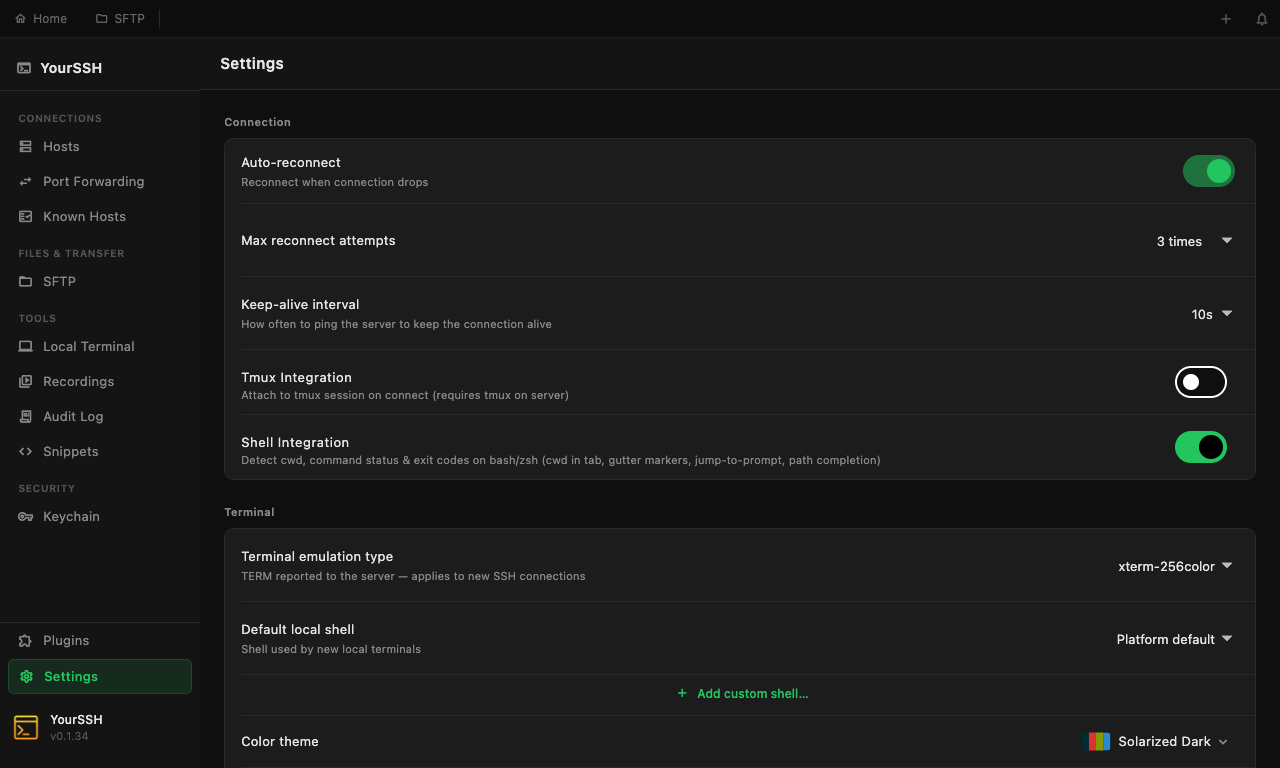
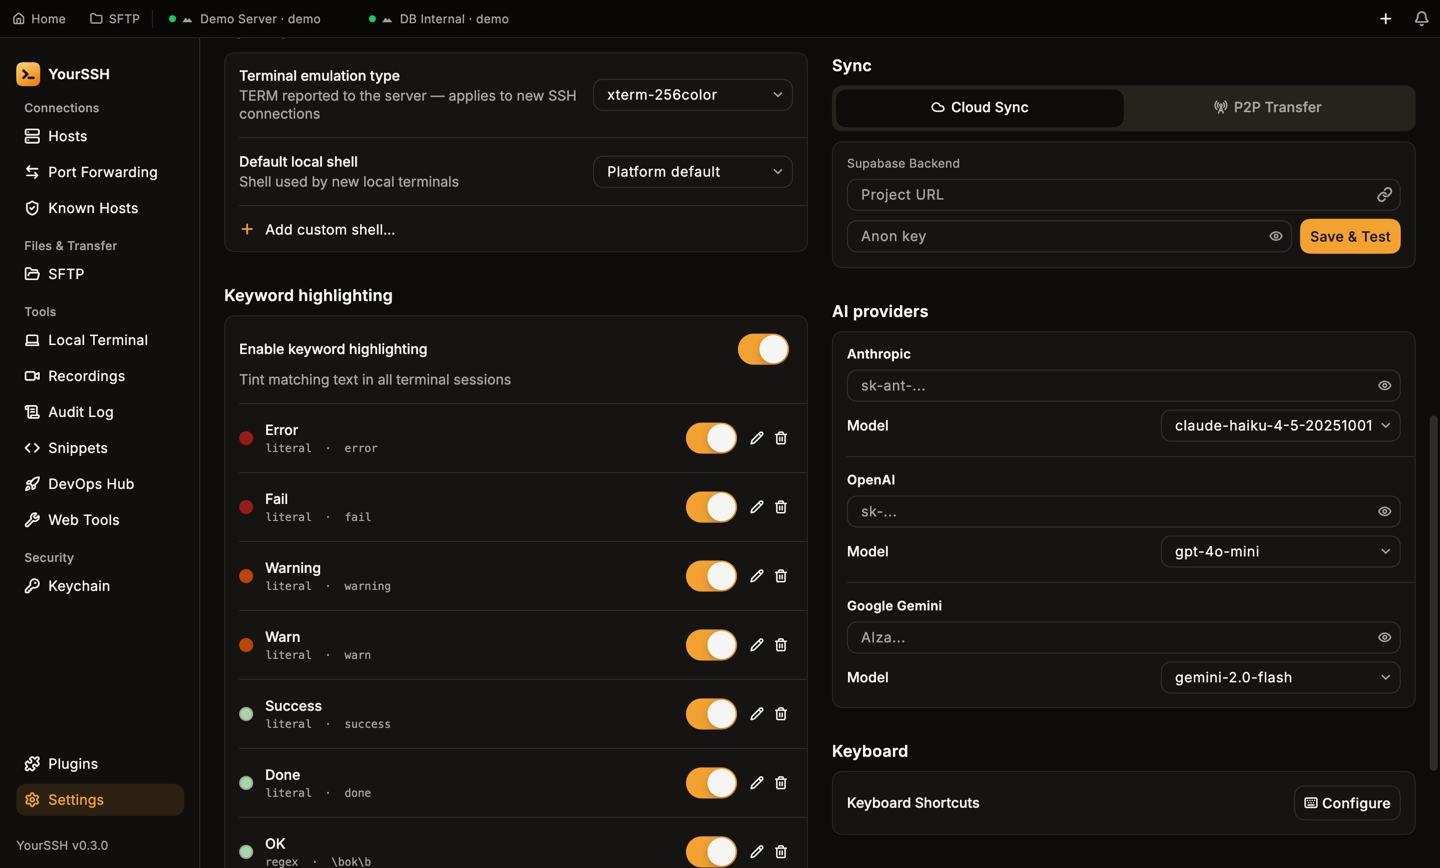
docs: refresh README screenshots with the redesigned UI and log the docs-run fixes

diff --git a/CHANGELOG.md b/CHANGELOG.md
@@ -13,6 +13,15 @@ and this project adheres to [Semantic Versioning](https://semver.org/spec/v2.0.0
 - **Audit source for CLI and URL connects** — SSH connect rows carry `meta.source` = `cli` / `url`; RDP and VNC rows keep `source: rdp|vnc` and carry `via` = `cli` / `url`.
 
 ### Fixed
+- **Snippets no longer disappear after allowing the bundled "Snippets" plugin.** Earlier builds shipped a half-migrated script copy of Snippets that moved your snippets out of the built-in plugin's storage on first load and then failed, so the next launch showed only the defaults. The script copy is no longer installed, a leftover copy in `~/.yourssh/plugins/snippets` is ignored (script plugins can't reuse a built-in plugin's id), and the moved snippets are restored once at startup (merged, no duplicates).
+- Bulk "Run command" no longer reports `exit -1` for fast commands: the SSH layer kept an exit status that arrived before the session was ready. The footer counts non-zero exits separately (`N ok · M non-zero exit · K failed`) and an unknown exit status is shown as such.
+- A host whose name doesn't resolve no longer sits on "Connecting…" forever: the TCP dial times out after 15 s and the connecting screen shows the last error with the retry attempt.
+- Entering RDP/VNC fullscreen no longer raises a framework error; the first RDP connect shows a neutral "verifying certificate" state behind the trust dialog instead of an error with Retry; Retry buttons have a normal width.
+- Shell-integration gutter markers follow their prompt line and disappear on `clear` instead of floating on empty rows.
+- Field errors in the host editor and port-forward editor clear as soon as the value is fixed, and the port error fits on one line.
+- The hosts toolbar fits the 900×600 minimum window (lower-priority controls collapse into a menu); the Mail Catcher and AI chat titles no longer truncate with room to spare; multi-line Web Tools editors start at the top; the mobile Generate/Import key sheets have an opaque surface; Esc closes the LAN-sync QR dialog.
+- SFTP shows readable errors (e.g. '"releases" already exists') instead of raw `SftpStatusError` codes when creating or renaming.
+- An empty split pane explains how to fill it; remaining all-caps buttons and titles (Keychain, Port forwarding, Audit log, bulk dialogs) use sentence case.
 - **The host editor no longer leaks one host's form into another.** Opening "Edit" on a second host (or "New host" / "Duplicate") while the editor was open kept the first host's fields, and Save wrote them (including the password) into the second host.
 - The terminal header and status bar follow edits to the host (label, user, tags, jump chain) instead of showing the values from when the tab was opened.
 - Mail catcher: messages whose log starts with ESMTP options (`mail options: ['BODY=8BITMIME']`) are no longer dropped; the body is parsed separately from the headers, *Clear all* persists, and the log is written unbuffered in append mode.

diff --git a/.docs/ui-redesign/changelog.md b/.docs/ui-redesign/changelog.md
@@ -7,3 +7,4 @@
 - 2026-11-12: Phase 1 (shell) done on feature/ui-shell.
 - 2026-11-12: Phases 2-6 plan written and executed (phases 2-5 desktop, phase 6 mobile); Task 17 token sweep, lint gate and docs done.
 - 2026-11-13: Final review fix round (P30): host editor remounts per edit target (data-loss fix), mail catcher skips the ESMTP options preamble, confirms for dashboard host Delete and Known Hosts Remove, terminal header and status bar follow host edits, proxy port range check, discovery and monitor sheets plus inline rename and fallback editor on forui, lint gate extended, `yourssh_web_tools` in the plugin CI matrix, watch banner cue restored, docs completed.
+- 2026-11-13: Docs user-journey harness (app/integration_test/docs/) drove the final app against demo containers and captured 208 screenshots (untracked, screenshots/docs/). Its findings plus a controller review of every shot gave 22 fixes in 4 parallel worktrees (P31), incl. a pre-existing snippets data-loss bug from the half-migrated bundled JS Snippets plugin (P32). Journey re-run clean; README screenshots refreshed from it.
